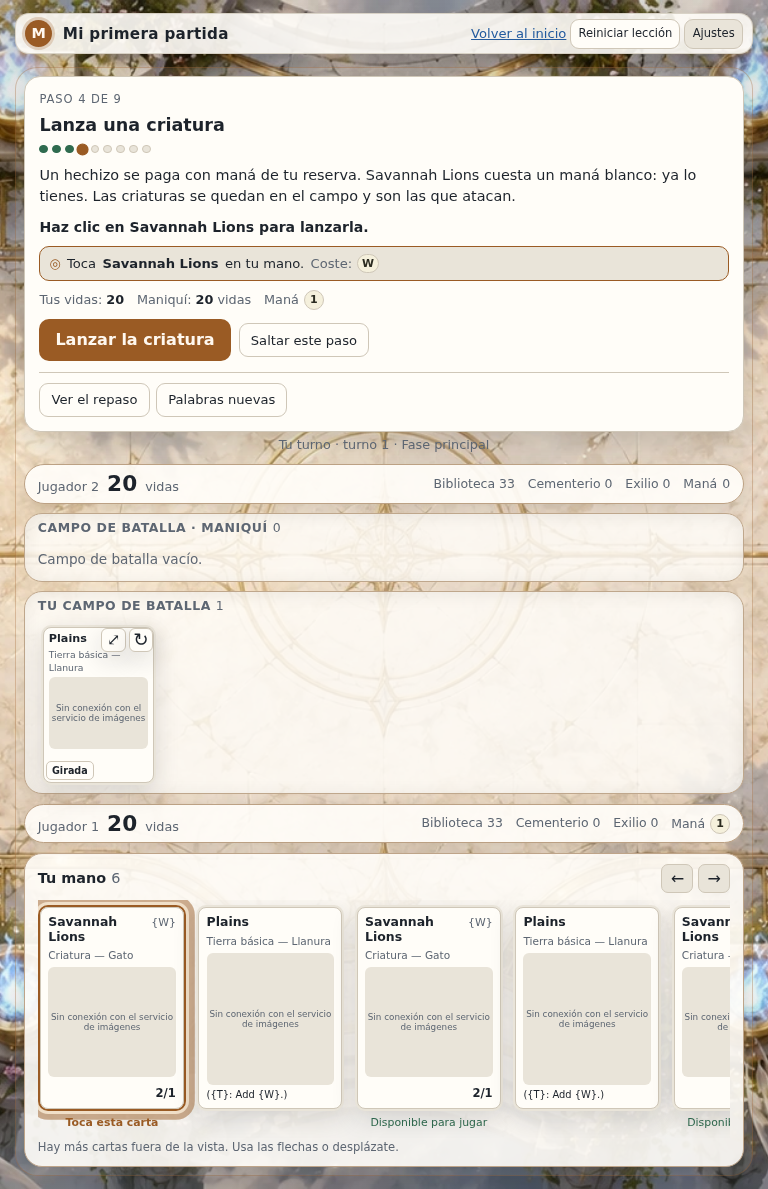
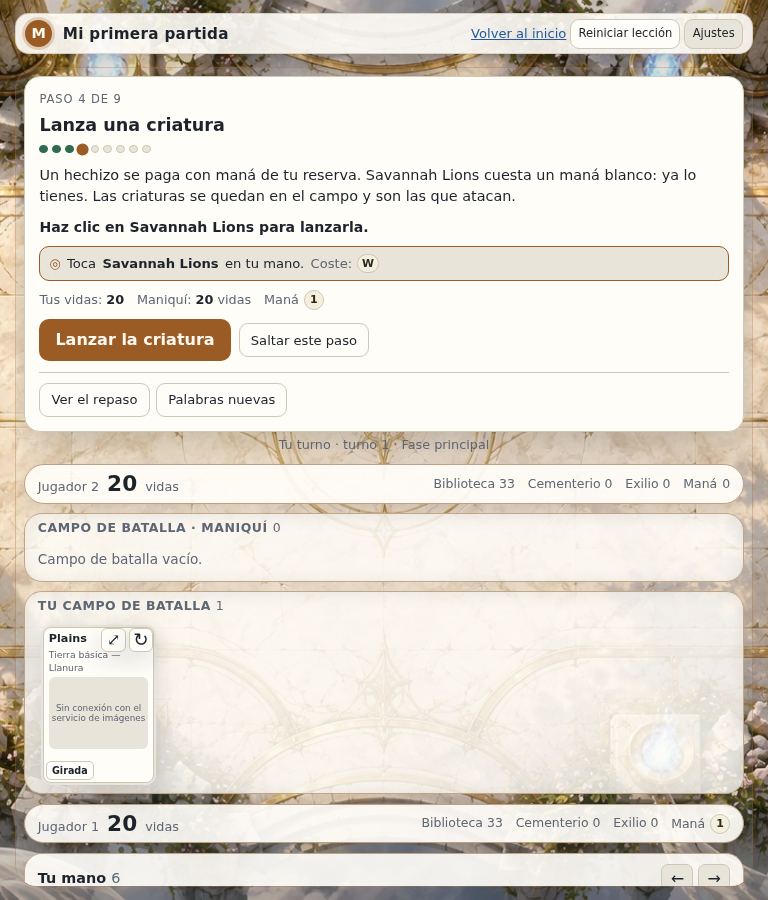
M10: la tablet tampoco es un documento — deuda 578→0 (1024×768), 569→0 (768×1024), 643→0 (900×700) y 513→0 (641×768) con la mano siempre al pie
M9 dejó la decisión de Phase siempre a la vista en la banda 641–1099 px, pero el
documento seguía creciendo porque el alto lo decidían los dos campos y no la
pantalla. Medido con el motor real y la mano viva (5 cartas, 4+4 permanentes), en
un mismo estado y con el CSS de M9 restaurado en caliente:

| Ventana | Documento antes | Deuda antes | Documento ahora | Deuda ahora |
| --- | --- | --- | --- | --- |
| 641×768 | 1281 px | 513 px | 768 px | 0 |
| 768×1024 | 1593 px | 569 px | 1024 px | 0 |
| 900×700 | 1343 px | 643 px | 700 px | 0 |
| 1024×768 | 1346 px | 578 px | 768 px | 0 |
| 1099×768 | 1308 px | 540 px | 768 px | 0 |

- `.app:has(> .layout)` mide `100dvh` con `overflow: hidden` y desplaza
  `main.layout` (`align-content: start` + `grid-auto-rows: max-content` porque
  dentro de un alto fijo las filas `auto` aplastan los campos, y
  `scroll-padding-block-end` para que el foco no quede detrás del HUD de M9).
- La mano pasa a tener su fila al pie: a 768×1024 el abanico va de y=1244 (244 px
  bajo el borde) a y=675–982; a 1024×768 el botón del cajón deja de ser `sticky`
  sobre las métricas y es una fila del pie (683–727, métricas 739–755).
- El HUD de M9 sigue pegado al pie de la región, ahora con `bottom: .5rem`
  porque la mano ya no está dentro de la región que desplaza.
- `/stress` queda fuera con `:has(> .layout)` (mide deuda 0 falsa si se recorta).

Con la mesa llena, al final del recorrido: región 601/1158 a 1024×768, decisión
[…]

diff --git a/tests/e2e/arena-viewport-matrix.spec.ts b/tests/e2e/arena-viewport-matrix.spec.ts
@@ -1,4 +1,5 @@
 import { expect, test, type Page, type TestInfo } from '@playwright/test';
+import { createBoardDriver } from './support/board-driver.ts';
 import { mkdir, writeFile } from 'node:fs/promises';
 import { join } from 'node:path';
 
@@ -232,6 +233,40 @@ test('partida real: la decisión se ve sin desplazar y el cajón sobrevive al ca
     }
   }
 
+  // M10: en la banda de tablet (641–1099 px) la página deja de ser un documento.
+  // Al empezar la partida el tablero está casi vacío, así que aquí sólo se fija
+  // lo que vale en cualquier estado: el documento mide la pantalla, la mesa
+  // tiene su propia región que desplaza y la mano no se va por abajo. Las
+  // propiedades que necesitan una mesa llena viven en la prueba siguiente.
+  for (const [width, height] of [[1024, 768], [768, 1024]] as const) {
+    await page.setViewportSize({ width, height });
+    await settle(page);
+    const where = `${width}×${height}`;
+    const shape = await page.evaluate(() => {
+      const region = document.querySelector<HTMLElement>('main.layout')!;
+      const hand = document.querySelector<HTMLElement>('.hand-zone')!.getBoundingClientRect();
+      const trigger = document.querySelector<HTMLElement>('.hand-trigger');
+      const shown = trigger && getComputedStyle(trigger).display !== 'none';
+      return {
+        debt: Math.max(0, document.documentElement.scrollHeight - innerHeight),
+        regionOverflow: getComputedStyle(region).overflowY,
+        handTop: Math.round(hand.top),
+        handBottom: Math.round(hand.bottom),
+        triggerTop: shown ? Math.round(trigger!.getBoundingClientRect().top) : null,
+        triggerBottom: shown ? Math.round(trigger!.getBoundingClientRect().bottom) : null
+      };
+    });
+    expect(shape.debt, `la tablet vuelve a ser un documento a ${where}`).toBe(0);
+    expect(shape.regionOverflow, `la mesa no tiene región propia a ${where}`).toBe('auto');
+    expect(shape.handBottom, `la mano se va por abajo a ${where}`).toBeLessThanOrEqual(height);
+    if (shape.triggerTop !== null) {
+      expect(shape.triggerTop, `el botón de la mano se va por abajo a ${where}`).toBeGreaterThanOrEqual(0);
+      expect(shape.triggerBottom!, `el botón de la mano no cabe a ${where}`).toBeLessThanOrEqual(height);
+    } else {
+      expect(shape.handTop, `el abanico de la mano se va por arriba a ${where}`).toBeGreaterThanOrEqual(0);
+    }
+  }
+
   // The drawer may only exist where the fan does not fit; it must open, take
   // focus, and close itself when the window grows again, or the board would
   // stay `inert` behind a trigger that is no longer rendered.
@@ -251,4 +286,132 @@ test('partida real: la decisión se ve sin desplazar y el cajón sobrevive al ca
   await expect(page.locator('.hand-zone')).not.toHaveClass(/sheet-open/);
   await expect(page.locator('main.layout')).not.toHaveAttribute('inert', '');
   await expect(page.locator('.hand-trigger')).toBeHidden();
+});
+
+/**
+ * M10 — la tablet, con la partida empezada.
+ *
+ * La matriz de arriba corre en el `MulliganDecision`, donde el tablero está casi
+ * vacío: medir ahí la deuda de una tablet es medir una pantalla vacía. Esta
+ * prueba juega hasta tener la mano viva y permanentes en los dos campos
+ * (medido: 5 cartas y 4+4 permanentes) y recién entonces mide. Antes de M10, en
+ * ese estado, el documento medía 1346 px a 1024×768 (deuda 578) y 1593 a
+ * 768×1024 (deuda 569), y el abanico de la mano nacía 244 px por debajo de la
+ * pantalla.
+ */
+test('tablet con la mesa llena: el tablero desplaza dentro y la mano no se va de la pantalla', async ({ page }, testInfo) => {
+  await page.setViewportSize({ width: 1440, height: 900 });
+  await page.route('**/api.scryfall.com/**', (route) => route.abort());
+  await page.goto('/?autostart');
+  await expect(page.locator('section[aria-label="Decisión pendiente"]')).toBeVisible({ timeout: 180_000 });
+  const driver = createBoardDriver(page);
+
+  const population = () => page.evaluate(() => ({
+    hand: document.querySelectorAll('.hand-zone [data-card-id]').length,
+    permanents: [...document.querySelectorAll<HTMLElement>('section.battlefield[data-side]')].map(
+      (field) => field.querySelectorAll('[data-card-id]').length
+    )
+  }));
+  let state = await population();
+  for (let turn = 0; turn < 40; turn += 1) {
+    if (state.hand >= 4 && state.permanents.every((count) => count >= 4)) break;
+    await driver.settleSeat().catch(() => {});
+    if (!(await driver.playPlayableCard().catch(() => false))) {
+      await driver.answerAnyPrompt().catch(() => false);
+    }
+    state = await population();
+  }
+  test.skip(
+    !(state.hand >= 4 && state.permanents.every((count) => count >= 4)),
+    'la partida no llegó a un tablero con mano viva y permanentes en los dos campos'
+  );
+
+  const evidence: unknown[] = [];
+  for (const [width, height] of [[1024, 768], [900, 700], [768, 1024], [641, 768]] as const) {
+    const where = `${width}×${height}`;
+    await page.setViewportSize({ width, height });
+    await settle(page);
+    const sample = await page.evaluate(() => {
+      const region = document.querySelector<HTMLElement>('main.layout')!;
+      region.scrollTop = 0;
+      const app = document.querySelector<HTMLElement>('.app')!;
+      const panel = document.querySelector<HTMLElement>('section[aria-label="Decisión pendiente"]')!;
+      const hand = document.querySelector<HTMLElement>('.hand-zone')!.getBoundingClientRect();
+      return {
+        debt: Math.max(0, document.documentElement.scrollHeight - innerHeight),
+        horizontalOverflow: document.documentElement.scrollWidth - innerWidth,
+        appHeight: Math.round(app.getBoundingClientRect().height),
+        regionClient: region.clientHeight,
+        regionScroll: region.scrollHeight,
+        regionMax: region.scrollHeight - region.clientHeight,
+        handTop: Math.round(hand.top),
+        handBottom: Math.round(hand.bottom),
+        fieldHeights: [...document.querySelectorAll<HTMLElement>('section.battlefield[data-side]')].map(
+          (field) => Math.round(field.getBoundingClientRect().height)
+        ),
+        minFieldCardWidth: Math.min(
+          ...[...document.querySelectorAll<HTMLElement>('section.battlefield[data-side] [data-card-id]')].map(
+            (card) => Math.round(card.getBoundingClientRect().width)
+          )
+        ),
+        panelTop: Math.round(panel.getBoundingClientRect().top)
+      };
+    });
+    expect(sample.debt, `el documento vuelve a crecer con la mesa llena a ${where}`).toBe(0);
+    expect(sample.horizontalOverflow, `desbordamiento horizontal a ${where}`).toBeLessThanOrEqual(1);
+    expect(sample.appHeight, `la aplicación no mide la pantalla a ${where}`).toBe(height);
+    expect(sample.regionMax, `la mesa no tiene nada que desplazar a ${where}`).toBeGreaterThan(0);
+    expect(sample.handBottom, `la mano se va por abajo a ${where}`).toBeLessThanOrEqual(height);
+    expect(sample.handTop, `la mano se va por arriba a ${where}`).toBeGreaterThanOrEqual(0);
+    // Las cartas no se encogen para que la deuda dé cero: son las mismas de la
+    // banda (118/115/100 px) y siguen por encima del mínimo legible.
+    expect(sample.minFieldCardWidth, `carta ilegible a ${where}`).toBeGreaterThanOrEqual(70);
+
+    // Al final del recorrido: la decisión entera, su último botón y la última
+    // carta del campo propio siguen respondiendo.
+    const end = await page.evaluate(() => {
+      const region = document.querySelector<HTMLElement>('main.layout')!;
+      region.scrollTop = region.scrollHeight;
+      // Se mide el desplazamiento ANTES de traer la carta a la vista: el
+      // `scrollIntoView` mueve la región otra vez y falsearía el «llegó al
+      // final».
+      const scrollTop = Math.round(region.scrollTop);
+      const regionMax = Math.round(region.scrollHeight - region.clientHeight);
+      const panel = document.querySelector<HTMLElement>('section[aria-label="Decisión pendiente"]')!;
+      const box = panel.getBoundingClientRect();
+      const buttons = [...panel.querySelectorAll('button')].filter((button) => button.offsetParent !== null);
+      const last = buttons.at(-1);
+      const lb = last?.getBoundingClientRect();
+      const hit = lb ? document.elementFromPoint(lb.x + lb.width / 2, Math.min(lb.y + lb.height / 2, innerHeight - 1)) : null;
+      const own = document.querySelector<HTMLElement>('main.layout > .battlefield[data-side="player"], section.battlefield[data-side="player"]')!;
+      const cards = [...own.querySelectorAll<HTMLElement>('[data-card-id]')].filter((card) => card.getBoundingClientRect().width > 0);
+      const lastCard = cards.at(-1);
+      let cardHit: boolean | null = null;
+      if (lastCard) {
+        lastCard.scrollIntoView({ block: 'center' });
+        const cardBox = lastCard.getBoundingClientRect();
+        const cardEl = document.elementFromPoint(cardBox.x + cardBox.width / 2, Math.min(cardBox.y + cardBox.height / 2, innerHeight - 1));
+        cardHit = !!cardEl && (cardEl === lastCard || lastCard.contains(cardEl));
+      }
+      return {
+        scrollTop,
+        regionMax,
+        panelTop: Math.round(box.top),
+        panelBottom: Math.round(box.bottom),
+        lastHit: lb ? hit === last || !!last?.contains(hit) : false,
+        cardHit
+      };
+    });
+    await settle(page);
+    expect(end.scrollTop, `la región no llegó al final a ${where}`).toBe(end.regionMax);
+    expect(end.panelTop, `la decisión se escapa por arriba a ${where}`).toBeGreaterThanOrEqual(0);
+    expect(end.panelBottom, `la decisión se escapa por abajo a ${where}`).toBeLessThanOrEqual(height);
+    expect(end.lastHit, `el último botón de la decisión no responde a ${where}`).toBe(true);
+    expect(end.cardHit, `la última carta del campo propio no se puede tocar a ${where}`).toBe(true);
+    evidence.push({ where, sample, end });
+    await page.evaluate(() => { document.querySelector<HTMLElement>('main.layout')!.scrollTop = 0; });
+    await settle(page);
+  }
+  console.log('MESA_VIEWPORT_TABLET ' + JSON.stringify(evidence));
+  await persist(testInfo, 'tablet-band', evidence);
 });

diff --git a/src/lib/styles/arena.css b/src/lib/styles/arena.css
@@ -1250,12 +1250,65 @@
        pantalla justo al mirar el propio campo. */
     order: 1;
     position: sticky;
-    /* El botón de la mano mide 44 px y va pegado al borde inferior: 54,4 px
-       dejan 10 px de aire entre el HUD y el control. */
-    bottom: 3.4rem;
+    /* La mano ya no está en esta región (M10 la saca a su propia fila), así que
+       el HUD se pega al borde inferior del tablero con 8 px de aire. */
+    bottom: .5rem;
     z-index: 25;
     /* El tablero pasa por detrás: el HUD necesita fondo propio. */
     background: color-mix(in srgb, var(--surface) 94%, transparent);
     border-radius: 14px;
+  }
+}
+
+/*
+ * arena-band-m10 — la tablet tampoco es un documento.
+ *
+ * M9 dejó la decisión de Phase siempre visible en la banda 641–1099 px, pero el
+ * documento seguía creciendo: medido con el motor real y la mano viva (5 cartas,
+ * 4+4 permanentes) a 1024×768 el documento medía 1346 px (deuda 578) y a
+ * 768×1024 1593 (deuda 569). Con el tablero desplazando, el HUD `sticky` tenía
+ * que perseguir el borde y el abanico de la mano seguía naciendo 244 px por
+ * debajo de la pantalla a 768×1024 (medido: y=1244–1551 al principio del
+ * recorrido).
+ *
+ * La causa es la misma que en el teléfono (M8): el alto lo deciden los dos
+ * campos, no la pantalla. Aquí se aplica el mismo criterio **por ancho**, y con
+ * una diferencia: en la tablet la mano se queda en su propia fila al pie, así
+ * que nunca hay que desplazar para encontrarla y el HUD no tiene que esquivarla.
+ * El tablero (`.layout`) es lo único que desplaza.
+ */
+
+@media (min-width: 641px) and (max-width: 1099px) and (min-height: 521px) {
+  /* Sólo donde existe la región de la mesa: `/stress` no la tiene y ahí la
+     página debe seguir desplazando (si no, el `overflow: hidden` recortaría su
+     contenido y la matriz mediría una deuda 0 falsa). */
+  .app.app[data-board-style="arena"]:has(> .layout) {
+    height: 100dvh;
+    overflow: hidden;
+  }
+  .app.app[data-board-style="arena"] > .layout {
+    flex: 1 1 auto;
+    min-height: 0;
+    overflow-y: auto;
+    overscroll-behavior: contain;
+    /* Dentro de un alto fijo las filas `auto` se aplastan y los campos quedan
+       en 12 px (medido en el teléfono): el tablero crece a su contenido y es la
+       región la que desplaza. */
+    align-content: start;
+    grid-auto-rows: max-content;
+    /* El HUD pegado tapa el final de la región: el foco por teclado se trae por
+       encima de él y nunca queda detrás. */
+    scroll-padding-block-end: calc(var(--decision-h, 4rem) + 1rem);
+  }
+  .app.app[data-board-style="arena"] > .layout > * {
+    flex-shrink: 0;
+  }
+  /* La mano no entra en la región que desplaza: tiene su fila al pie y se ve
+     siempre, sin `sticky`. Según el alto de la ventana esa fila es el abanico
+     (a 768×1024 mide 307 px) o el botón que abre el cajón (44 px); en los dos
+     casos el tablero se queda con el resto y es lo único que desplaza. */
+  .app.app[data-board-style="arena"] > .hand-zone,
+  .app.app[data-board-style="arena"] > .hand {
+    flex: 0 0 auto;
   }
 }

diff --git a/docs/ARENA-1.0-VIEWPORTS.md b/docs/ARENA-1.0-VIEWPORTS.md
@@ -383,27 +383,97 @@ por las propiedades que de verdad importan, todas medidas en la misma corrida:
 campo** (≥95 %), `position: sticky` y `top: auto` con `bottom` positivo. Es decir:
 no es el rail, sigue en el flujo de la línea central y además se queda al pie.
 
+## Séptima pasada (M10): la tablet tampoco es un documento
+
+M9 dejó la decisión siempre a la vista en la banda 641–1099 px, pero el
+documento seguía creciendo: el alto lo decidían los dos campos, no la pantalla.
+Medido con el motor real y la mano viva (5 cartas, 4+4 permanentes), en un
+**mismo estado** y con el CSS de M9 restaurado en caliente para tener el «antes»
+exacto:
+
+| Ventana (mismo estado de partida) | Documento antes | Deuda antes | Documento ahora | Deuda ahora |
+| --- | --- | --- | --- | --- |
+| 641×768 | 1281 px | **513 px** | 768 px | **0 px** |
+| 768×1024 | 1593 px | **569 px** | 1024 px | **0 px** |
+| 900×700 | 1343 px | **643 px** | 700 px | **0 px** |
+| 1024×768 | 1346 px | **578 px** | 768 px | **0 px** |
+| 1099×768 | 1308 px | **540 px** | 768 px | **0 px** |
+
+Y el detalle que M9 documentó como pendiente: **el abanico de la mano nacía bajo
+el borde**. A 768×1024 empieza en y=1244 en un documento de 1593 (244 px por
+debajo de una pantalla de 1024).
+
+Lo que se hizo, con el criterio de M8 aplicado **por ancho**:
+
+1. **El documento mide la pantalla.** `.app:has(> .layout)` pasa a `100dvh` con
+   `overflow: hidden` y es `main.layout` quien desplaza (`align-content: start` +
+   `grid-auto-rows: max-content`, porque dentro de un alto fijo las filas `auto`
+   aplastan los campos; y `scroll-padding-block-end` para que el foco por teclado
+   no quede detrás del HUD pegado de M9). Medido: la región mide 601 px de alto
+   con 1178 de contenido a 1024×768, y 596/1165 a 768×1024.
+2. **La mano tiene su propia fila al pie**, y por eso ya no hay que desplazar
+   para encontrarla: a 768×1024 el abanico va de 675 a 982 y a 1024×768 el botón
+   del cajón ocupa 683–727 con las métricas del motor debajo (739–755). Antes el
+   botón era `sticky` y flotaba sobre las métricas en 724–768; ahora es una fila
+   del pie como el resto.
+3. **El HUD de M9 sigue pegado al pie de la región** (`bottom: .5rem`, ya no
+   `3.4rem`: la mano está fuera de la región que desplaza y no hay que
+   esquivarla), así que la decisión sigue entera en todo el recorrido.
+4. **`/stress` queda fuera** con `:has(> .layout)`: no tiene `main.layout`, así
+   que ahí la página sigue desplazando como siempre. Sin ese alcance el
+   `overflow: hidden` recortaría su contenido y la matriz habría medido una deuda
+   0 falsa.
+
+Resultado medido con la mesa llena (`MESA_VIEWPORT_TABLET`), en las cuatro
+ventanas de la banda:
+
+| Ventana | Región (alto/contenido) | Mano | Carta de campo | Decisión al final | Último botón | Última carta propia |
+| --- | --- | --- | --- | --- | --- | --- |
+| 1024×768 | 601 / 1158 | 765–768 (cajón) | 118 px | y=419–641 | **acierta** | **se toca** |
+| 900×700 | 533 / 1176 | 697–700 (cajón) | 118 px | y=332–574 | **acierta** | **se toca** |
+| 768×1024 | 596 / 1165 | 675–982 (abanico) | 115 px | y=394–635 | **acierta** | **se toca** |
+| 641×768 | 607 / 1120 | 765–768 (cajón) | 100 px | y=406–648 | **acierta** | **se toca** |
+
+No se encogió ninguna carta para llegar a cero: son las mismas de la banda
+(118/115/100 px). La lección (`/aprender`) comparte `app` + `.layout`, así que a
+768×900 su documento pasa de 1189 px a los 900 de la pantalla; la captura
+`docs/screenshots/tutorial-768.png` se regenera por eso y la prueba que exige
+que la lección se vea entera en 320, 375, 390, 768 y 1440 sigue pasando. Fuera de la banda no cambia nada, y no sólo por medición: la
+`@media` no puede aplicarse a ≥1100 px ni a ≤640 px. Comprobado con el cambio
+desactivado en caliente en el mismo estado: `1440×900`, `1280×800`, `1180×820`,
+`1100×700`, `640×768`, `844×390`, `390×844` y `320×800` dan exactamente los
+mismos números con y sin M10.
+
+`tests/e2e/arena-viewport-matrix.spec.ts` gana una prueba propia («tablet con la
+mesa llena») porque la matriz existente corre en el `MulliganDecision`, donde el
+tablero está casi vacío: medir la deuda de una tablet ahí es medir una pantalla
+vacía. La prueba nueva juega hasta tener mano viva y permanentes en los dos
+campos y entonces exige deuda 0, que la región tenga algo que desplazar, que la
+mano quepa, que las cartas sigan ≥70 px y que al final del recorrido respondan
+el último botón de la decisión y la última carta del campo propio. La prueba de
+la matriz se queda con lo que vale en cualquier estado (deuda 0, región propia,
+mano dentro de la pantalla).
+
 ## Pendiente
 
-- **En la tablet el documento sigue desplazando** (1024×768: 586 px; 900×700:
-  652; 768×1024: 531; 1024×1366: 208). Es deliberado: con cartas legibles y diez
-  permanentes no cabe, y el HUD pegado garantiza que la decisión no se pierda.
-  Encoger cartas **no** es la vía, y se midió para no volver a suponerlo: con el
-  mismo estado a 1024×768, limitar las cartas a 100 px deja la deuda en 469; a 88
-  px, 402; a 73 px (`9.5dvh`, el tope del rail), **319**; y a 55 px —por debajo
-  del mínimo legible de 70 px— todavía 218. Para llegar a 0 en esta banda lo que
-  tiene que dejar de crecer es el documento, no la carta: aplicar el shell de M8
-  por ancho implica decidir qué pasa con el abanico de la mano y con el HUD, y
-  merece su propio PR.
-- **El abanico de la mano queda bajo el borde en la tablet vertical**: a
-  768×1024 ocupa y=1253–1512 (empieza **229 px por debajo** de una pantalla de
-  1024) y a 1024×1366, y=1269–1528 (dentro de la pantalla). Se llega con un desplazamiento, pero el teléfono no lo necesita porque
-  tiene cajón. Las dos salidas medidas son un abanico `sticky` con el HUD
-  desplazado su alto, o extender el cajón a esta banda; la segunda toca las
-  pruebas táctiles y merece PR aparte.
+- **Las tierras del escritorio están por debajo del mínimo legible.** Medido con
+  el motor real: la fila de tierras usa `--card-w: min(124px, 7.5dvh)`, que a
+  900 px de alto son **68 px** (60 a 800, 62 a 820, 53 a 700), mientras las
+  criaturas se quedan en 124 y el fixture exige ≥70. Es anterior a M10 —idéntico
+  con y sin el cambio— y el arreglo no puede ser subir el tope sin devolver la
+  deuda al escritorio: merece su propio PR con la medición de las dos cosas.
+- **El documento del escritorio crece cuando la mesa se llena**: en una corrida
+  con seis permanentes en un campo el documento medía 1083 px a 1440×900 (deuda
+  183) y en otra con cinco, 900 (deuda 0). También es anterior a M10. La vía es
+  la misma que en la tablet —región que desplaza— pero en un ancho donde ya hay
+  rail lateral, y necesita su propia medición.
 - El registro de la partida sigue siempre visible en el teléfono; un plegado por
   defecto con contador sería la siguiente ganancia, pero toca un texto que hoy
   leen las pruebas de partida real.
+- Una corrida de la suite completa falló una vez en
+  `arena-card-tools-reachability` (fixture `/stress`, 1440×900, sin relación con
+  esta banda): no se reprodujo ni con `--repeat-each=2` ni en dos corridas
+  completas posteriores. Queda anotado como intermitente, no como arreglado.
 - Las cifras de este documento son de una corrida concreta con el estado de
-  partida descrito; la matriz real imprime `MESA_VIEWPORT_MATRIX_REAL` en cada
-  ejecución para volver a medirlas.
+  partida descrito; la matriz real imprime `MESA_VIEWPORT_MATRIX_REAL` y la de
+  tablet `MESA_VIEWPORT_TABLET` en cada ejecución para volver a medirlas.
